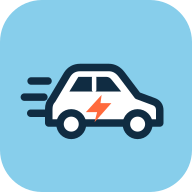
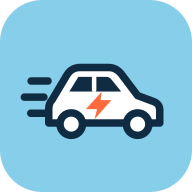
Center delivery lightning between car window and sill (#6)

Changed region(s): [[0.4375, 0.4688, 0.5938, 0.625]]

diff --git a/app/layout.tsx b/app/layout.tsx
@@ -16,17 +16,17 @@ export const metadata: Metadata = {
   title: 'Dostavita',
   description: 'Dostavita — быстрая доставка',
   applicationName: 'Dostavita',
-  manifest: '/manifest.json?v=dostavita',
+  manifest: '/manifest.json?v=dostavita-2',
   icons: {
     icon: [
-      { url: '/icon-32x32.png?v=dostavita', sizes: '32x32', type: 'image/png' },
-      { url: '/icon-192x192.png?v=dostavita', sizes: '192x192', type: 'image/png' },
-      { url: '/icon-512x512.png?v=dostavita', sizes: '512x512', type: 'image/png' },
+      { url: '/icon-32x32.png?v=dostavita-2', sizes: '32x32', type: 'image/png' },
+      { url: '/icon-192x192.png?v=dostavita-2', sizes: '192x192', type: 'image/png' },
+      { url: '/icon-512x512.png?v=dostavita-2', sizes: '512x512', type: 'image/png' },
     ],
     apple: [
-      { url: '/apple-icon-180x180.png?v=dostavita', sizes: '180x180', type: 'image/png' },
+      { url: '/apple-icon-180x180.png?v=dostavita-2', sizes: '180x180', type: 'image/png' },
     ],
-    shortcut: '/icon-32x32.png?v=dostavita',
+    shortcut: '/icon-32x32.png?v=dostavita-2',
   },
 }
 
@@ -45,9 +45,9 @@ export default function RootLayout({
   return (
     <html lang="ru" suppressHydrationWarning className={amaticSC.variable}>
       <head>
-        <link rel="icon" href="/icon-32x32.png?v=dostavita" sizes="32x32" type="image/png" />
-        <link rel="icon" href="/icon-192x192.png?v=dostavita" sizes="192x192" type="image/png" />
-        <link rel="apple-touch-icon" href="/apple-icon-180x180.png?v=dostavita" sizes="180x180" />
+        <link rel="icon" href="/icon-32x32.png?v=dostavita-2" sizes="32x32" type="image/png" />
+        <link rel="icon" href="/icon-192x192.png?v=dostavita-2" sizes="192x192" type="image/png" />
+        <link rel="apple-touch-icon" href="/apple-icon-180x180.png?v=dostavita-2" sizes="180x180" />
         {supabaseEnvScript ? (
           <script dangerouslySetInnerHTML={{ __html: supabaseEnvScript }} />
         ) : null}

diff --git a/components/driver/DriverBottomNavigation.tsx b/components/driver/DriverBottomNavigation.tsx
@@ -155,7 +155,7 @@ export function DriverBottomNavigation() {
             onClick={handleActiveOrderClick}
             className="relative w-20 h-20 rounded-full bg-brand-light text-gray-900 flex items-center justify-center shadow-lg hover:bg-brand-dark transition-all z-10 -mt-6 font-amatic-sc"
           >
-            <Image src="/icon.svg?v=dostavita" alt="Dostavita" width={48} height={48} className="rounded-xl" />
+            <Image src="/icon.svg?v=dostavita-2" alt="Dostavita" width={48} height={48} className="rounded-xl" />
             {activeOrders.length > 0 && (
               <span className="absolute -top-0.5 -right-0.5 bg-red-500 text-black text-2xl font-bold rounded-full w-9 h-9 flex items-center justify-center shadow-lg border-2 border-white leading-none">
                 {activeOrders.length > 9 ? '9+' : activeOrders.length}

diff --git a/app/dashboard/layout.tsx b/app/dashboard/layout.tsx
@@ -40,7 +40,7 @@ export default async function DashboardLayout({
             <div className="max-w-7xl mx-auto px-4 sm:px-6 lg:px-8">
               <div className="flex justify-between h-16">
                 <div className="flex items-center">
-                  <h1 className="flex items-center gap-2 text-3xl font-bold text-gray-900 tracking-tight"><Image src="/icon.svg?v=dostavita" alt="" width={40} height={40} />Dostavita</h1>
+                  <h1 className="flex items-center gap-2 text-3xl font-bold text-gray-900 tracking-tight"><Image src="/icon.svg?v=dostavita-2" alt="" width={40} height={40} />Dostavita</h1>
                   <PageTitle />
                 </div>
                 <DashboardNav profile={userProfile} userId={user.id} />

diff --git a/components/client/ClientBottomNavigation.tsx b/components/client/ClientBottomNavigation.tsx
@@ -84,7 +84,7 @@ export function ClientBottomNavigation() {
             onClick={() => router.push('/dashboard/client/create-order')}
             className="relative w-20 h-20 rounded-full bg-brand-light text-gray-900 flex items-center justify-center shadow-lg hover:bg-brand-dark transition-all z-10 -mt-6 font-amatic-sc"
           >
-            <Image src="/icon.svg?v=dostavita" alt="Dostavita" width={48} height={48} className="rounded-xl" />
+            <Image src="/icon.svg?v=dostavita-2" alt="Dostavita" width={48} height={48} className="rounded-xl" />
           </button>
 
           {/* Последние две кнопки */}

diff --git a/app/(auth)/register/page.tsx b/app/(auth)/register/page.tsx
@@ -129,7 +129,7 @@ export default function RegisterPage() {
   return (
     <div className="bg-white p-8 rounded-lg shadow-md border border-gray-200">
       <div className="flex flex-col items-center mb-6">
-        <Image src="/icon.svg?v=dostavita" alt="Быстрая доставка Dostavita" width={80} height={80} priority />
+        <Image src="/icon.svg?v=dostavita-2" alt="Быстрая доставка Dostavita" width={80} height={80} priority />
         <h1 className="text-4xl font-bold tracking-tight text-gray-900 mt-3">Dostavita</h1>
         <p className="text-gray-600 mt-2">Регистрация</p>
       </div>

diff --git a/app/(auth)/login/page.tsx b/app/(auth)/login/page.tsx
@@ -99,7 +99,7 @@ export default function LoginPage() {
   return (
     <div className="bg-white p-8 rounded-lg shadow-lg w-full border border-gray-200">
       <div className="flex flex-col items-center mb-6">
-        <Image src="/icon.svg?v=dostavita" alt="Быстрая доставка Dostavita" width={80} height={80} priority />
+        <Image src="/icon.svg?v=dostavita-2" alt="Быстрая доставка Dostavita" width={80} height={80} priority />
         <h1 className="text-4xl font-bold tracking-tight text-gray-900 mt-3">Dostavita</h1>
         <p className="text-gray-600 mt-2">Вход</p>
       </div>

diff --git a/public/sw.js b/public/sw.js
@@ -25,8 +25,8 @@ self.addEventListener('push', (event) => {
   const title = data.title || 'Dostavita — новый заказ'
   const options = {
     body: data.body || 'У вас есть новый доступный заказ',
-    icon: '/icon-192x192.png?v=dostavita',
-    badge: '/icon-192x192.png?v=dostavita',
+    icon: '/icon-192x192.png?v=dostavita-2',
+    badge: '/icon-192x192.png?v=dostavita-2',
     tag: data.tag || 'new-order',
     data: data.data || {},
     requireInteraction: true,

diff --git a/components/customer/CustomerBottomNavigation.tsx b/components/customer/CustomerBottomNavigation.tsx
@@ -51,7 +51,7 @@ export function CustomerBottomNavigation() {
               isActive('/dashboard/customer/available-orders') ? 'ring-2 ring-brand-light' : ''
             }`}
           >
-            <Image src="/icon.svg?v=dostavita" alt="Dostavita" width={48} height={48} className="rounded-xl" />
+            <Image src="/icon.svg?v=dostavita-2" alt="Dostavita" width={48} height={48} className="rounded-xl" />
           </button>
           <Link
             href="/dashboard/customer/finance"
